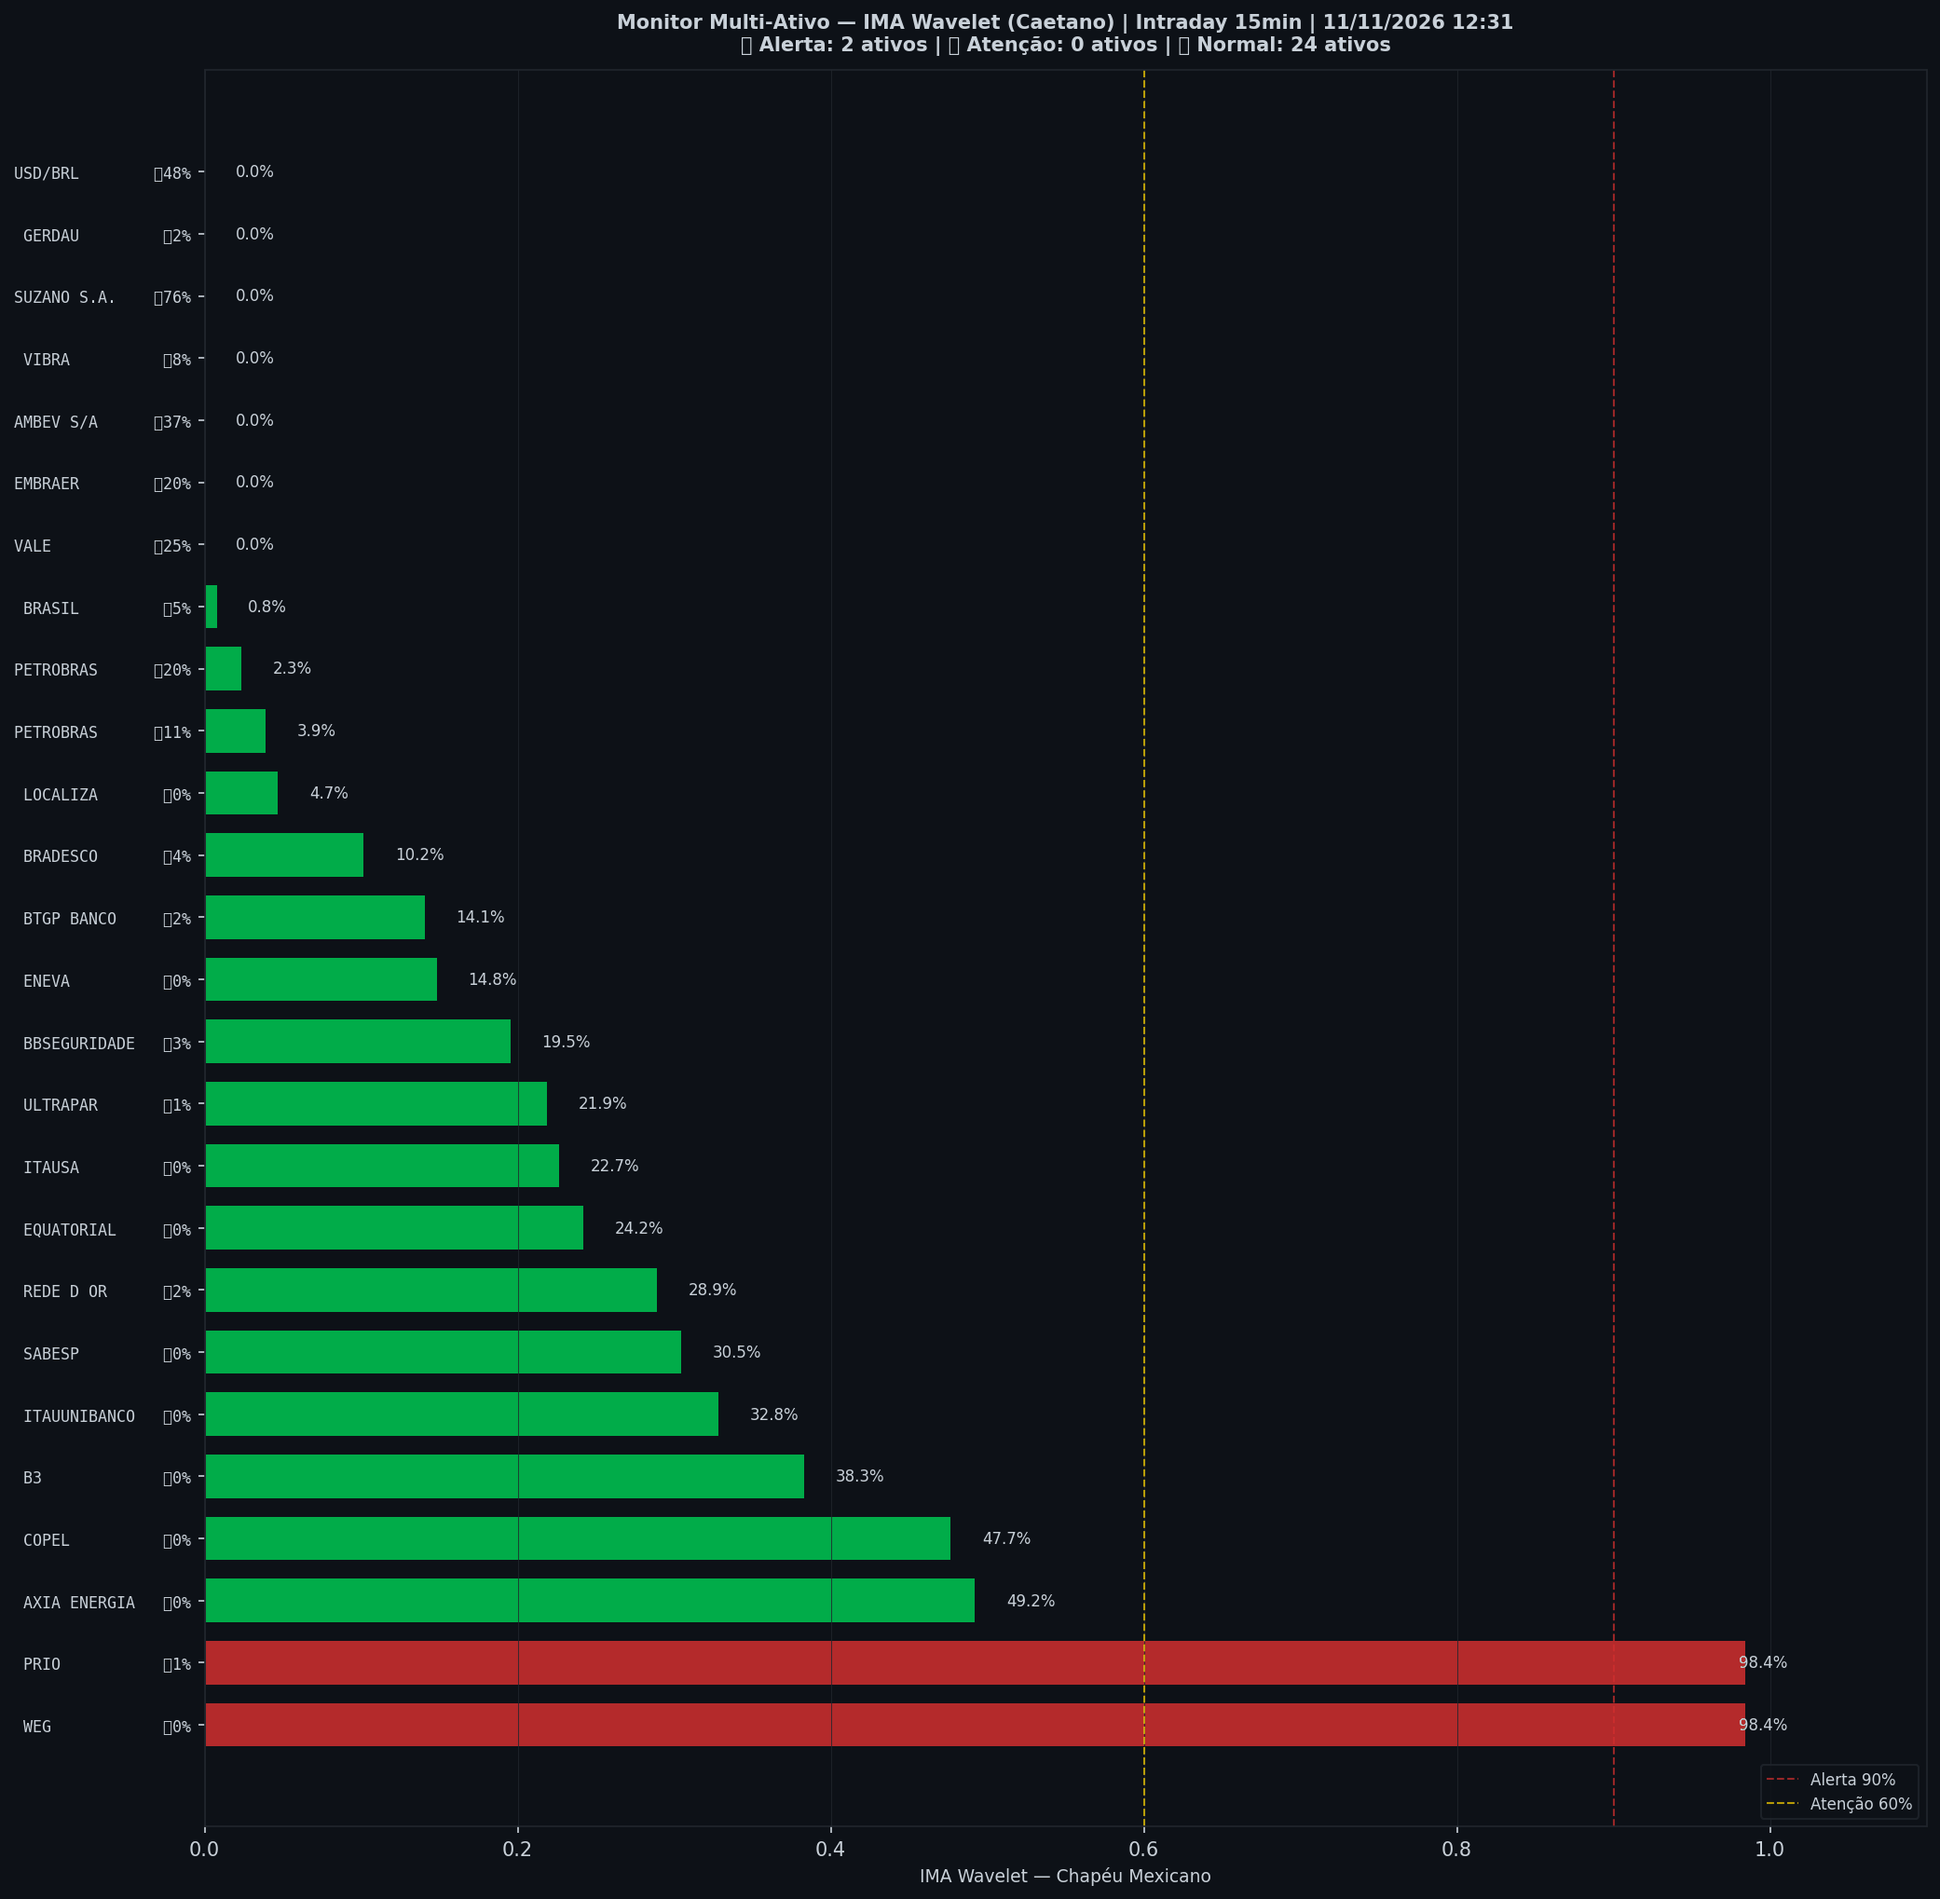
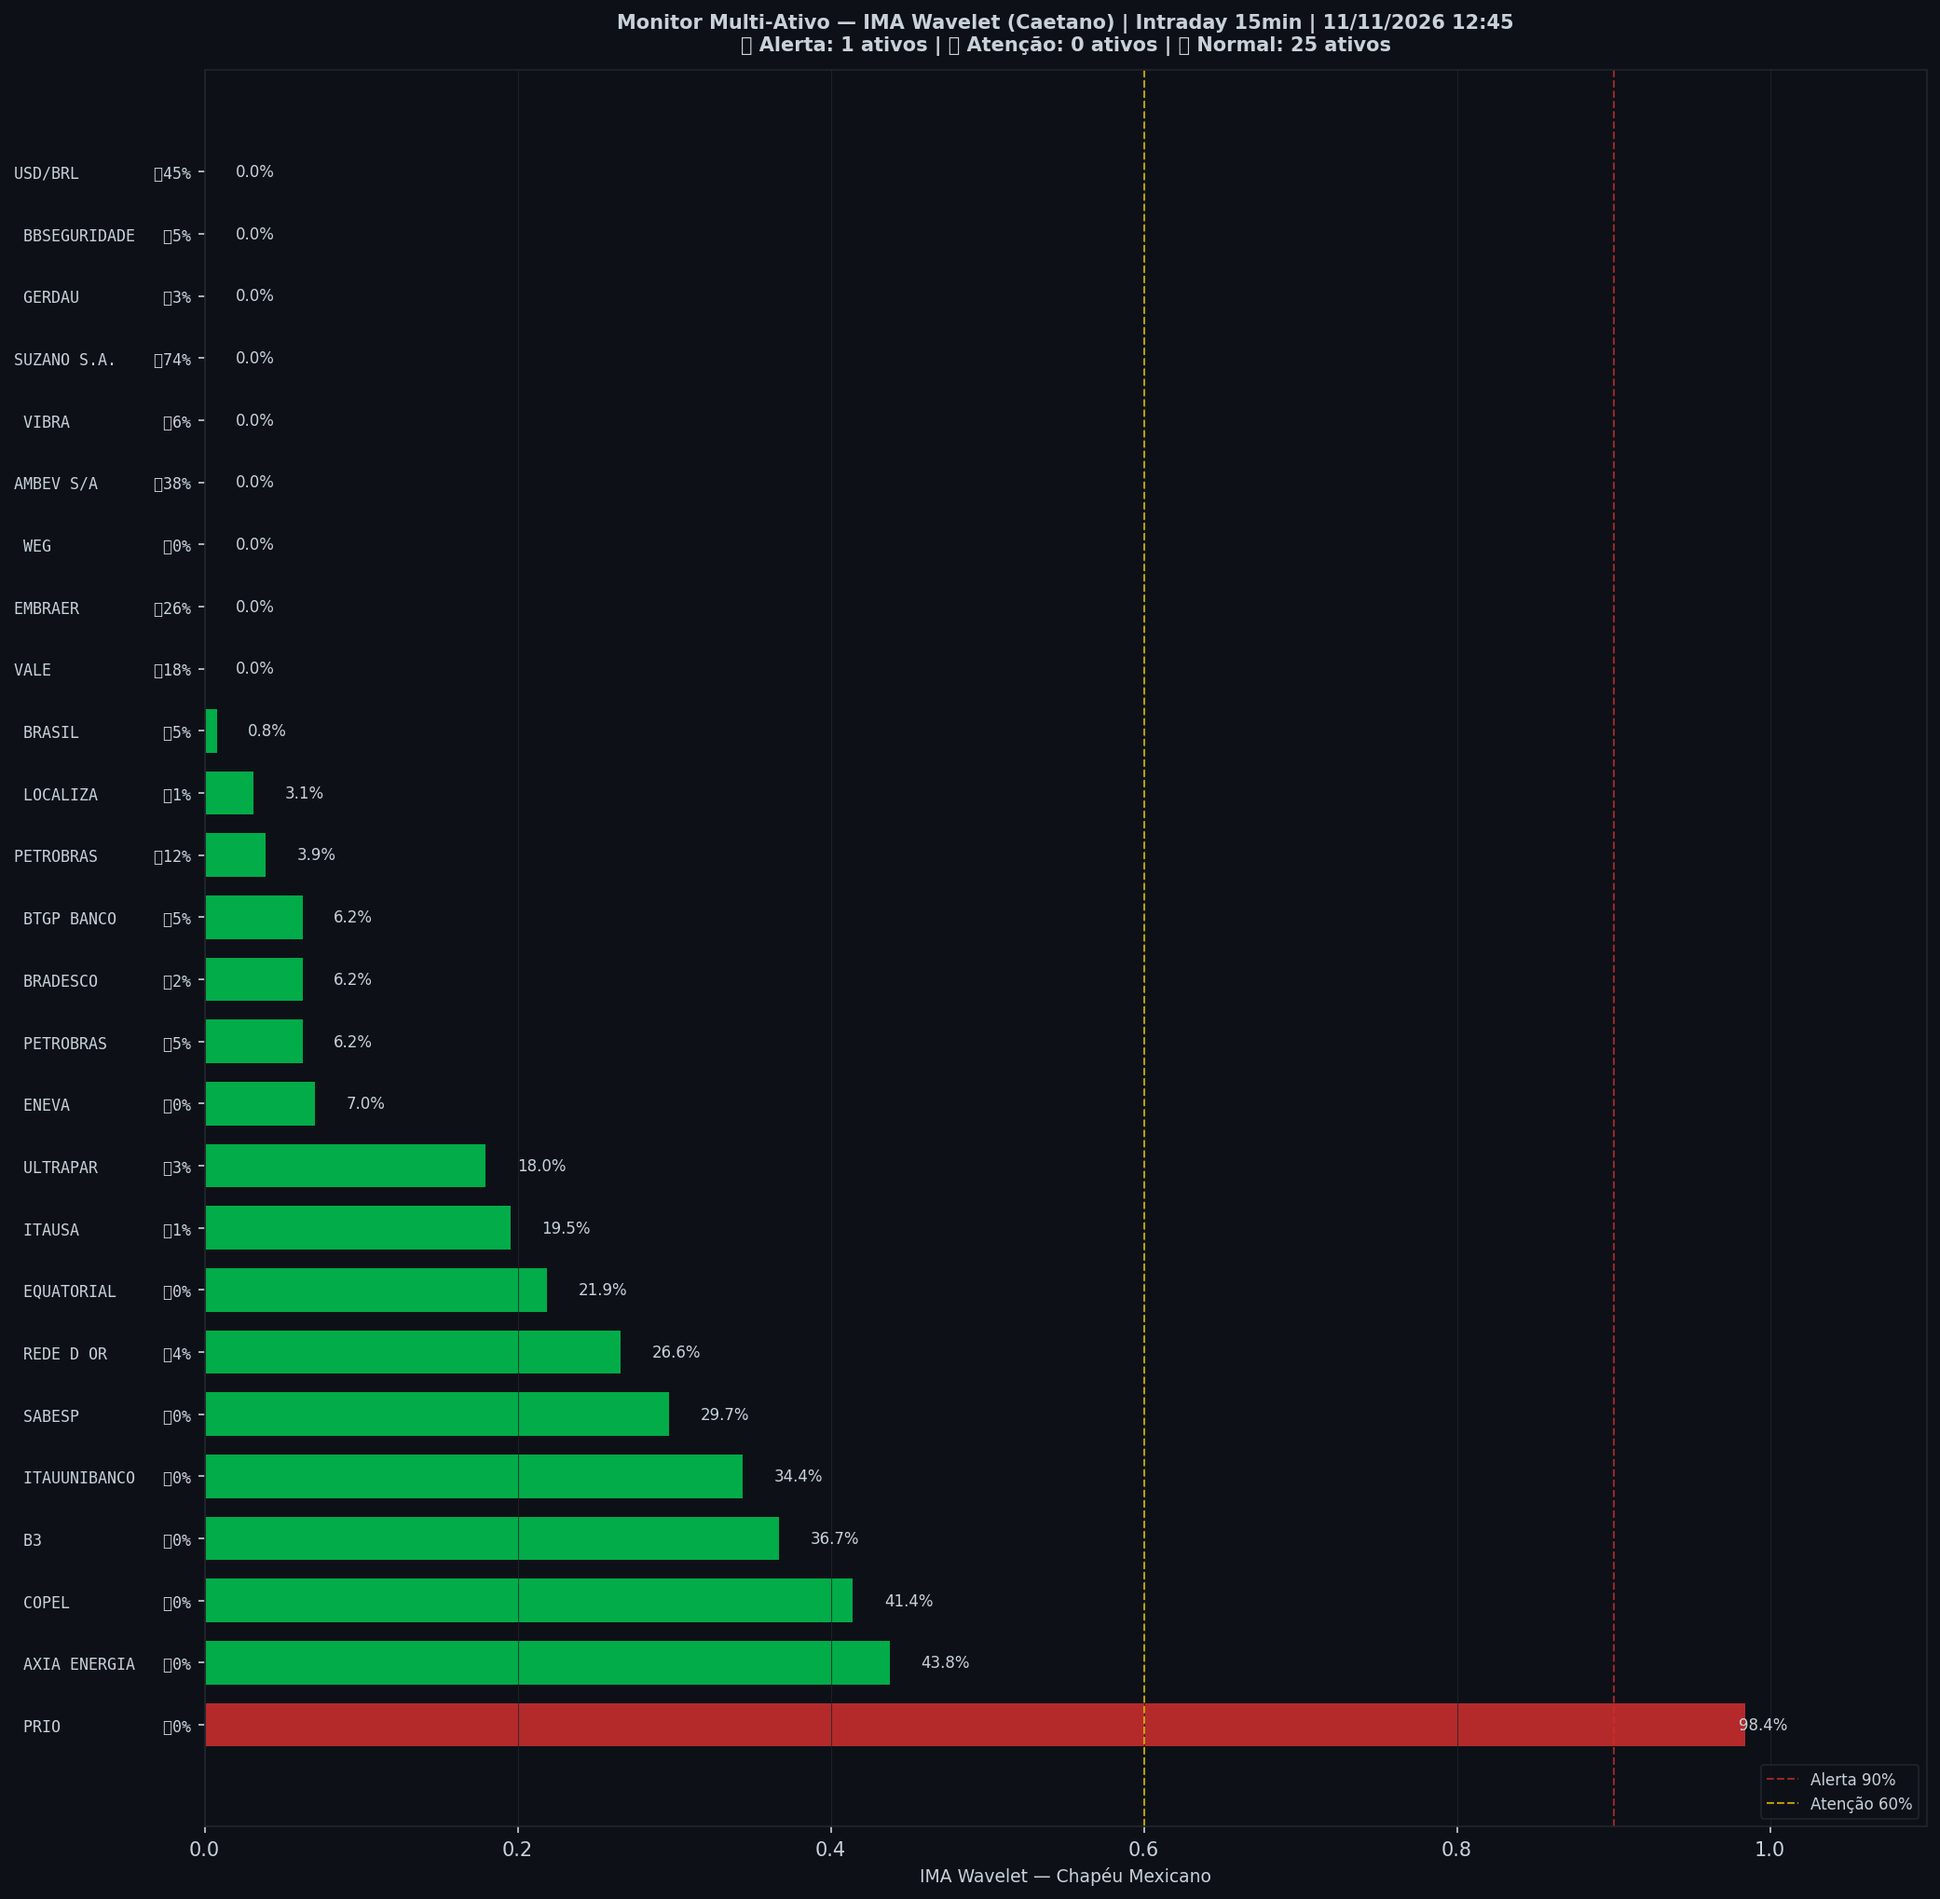
🤖 Auto: Sinal 11/11/2026 12:45

diff --git a/content/intraday/2026-11-11.md b/content/intraday/2026-11-11.md
@@ -1,10 +1,10 @@
 ---
-title: "🟢 Intraday 11/11/2026 12:15 BRT — VERDE"
+title: "🟢 Intraday 11/11/2026 12:30 BRT — VERDE"
 date: 2026-11-11
 tags: [intraday]
 ---
 
-> [!success] Onde o mercado está agora (11/11 12:15, candles de 15 min): **🟢 Calmo**
+> [!success] Onde o mercado está agora (11/11 12:30, candles de 15 min): **🟢 Calmo**
 > `Pânico ◀──────────●──────────▶ Euforia`
 >
 > O Ibovespa está dentro da sua faixa normal, sem excesso para cima nem para baixo.
@@ -20,7 +20,7 @@ tags: [intraday]
 > | 📍 **Sinais** | hoje: nenhum sinal | [abrir](sinais-topo-fundo/) |
 > | 🧪 **Placar ao vivo** | 1 operação(ões), 0 com lucro, soma -0,8% | [abrir](operacoes/) |
 
-> [!success] IMA Intraday · 15 min (11/11 12:15): 🟢 **VERDE** — Risco 0% · ▼ -2 p.p. vs leitura anterior
+> [!success] IMA Intraday · 15 min (11/11 12:30): 🟢 **VERDE** — Risco 0% · ＝ +0 p.p. vs leitura anterior
 > `░░░░░░░░░░░░░░░░░░░░`
 > Preço na faixa normal em torno da tendência.
 
@@ -32,13 +32,13 @@ tags: [intraday]
 >
 > *Leitura educacional baseada em 26 anos de dados, não recomendação. [Como usar](../metodologia/crise#3-como-usar-na-prática).*
 
-| Indicador — IMA Intraday · 15 min (11/11 12:15) | Valor |
+| Indicador — IMA Intraday · 15 min (11/11 12:30) | Valor |
 |---|---|
 | 🔴 ζ Topo — preço esticado acima da tendência | **0%** |
 | 🔵 ζ Fundo — preço esticado abaixo da tendência | 0% |
 | 🫧 LPPL bolha — alta super-exponencial (risco de crash) | 0% |
 | 🫧 LPPL antibolha — queda super-exponencial (risco de repique) | 0% |
-| 📊 Ibovespa | 172.700 pts |
+| 📊 Ibovespa | 172.890 pts |
 
 ![Gráfico do sinal](../graficos/sinal_intraday.png)
 
@@ -46,6 +46,7 @@ tags: [intraday]
 
 | Data | Zona | Evento | Risco | ζ Topo | ζ Fundo | LPPL |
 |---|---|---|---|---|---|---|
+| 2026-11-11 12:30 | 🟢 VERDE |  | **0%** | 0% | 0% | 0% |
 | 2026-11-11 12:15 | 🟢 VERDE |  | **0%** | 0% | 0% | 0% |
 | 2026-11-11 12:00 | 🟢 VERDE |  | **2%** | 2% | 0% | 0% |
 | 2026-11-11 11:45 | 🟢 VERDE |  | **5%** | 5% | 0% | 0% |
@@ -75,51 +76,50 @@ tags: [intraday]
 | 2026-11-10 14:00 | 🟢 VERDE |  | **0%** | 0% | 15% | 0% |
 | 2026-11-10 13:45 | 🟢 VERDE |  | **0%** | 0% | 16% | 0% |
 | 2026-11-10 13:30 | 🟢 VERDE |  | **0%** | 0% | 15% | 0% |
-| 2026-11-10 13:15 | 🟢 VERDE |  | **1%** | 1% | 12% | 0% |
 
 <small>Destaques: 🟡 ≥ 60% · 🔴 ≥ 90% (Risco e ζ Topo) · 🔵 ≥ 60% · 🔪 ≥ 90% (ζ Fundo) · 🫧 ≥ 30% · 🫧🔴 ≥ 50% (LPPL)</small>
 
 ## Monitor Multi-Ativo
 
-**8% dos ativos em tensão** (2🔴 0🟡) · **1 com ζ Fundo alto** — quanto mais ativos disparam juntos, mais confiável o sinal.
+**4% dos ativos em tensão** (1🔴 0🟡) · **1 com ζ Fundo alto** — quanto mais ativos disparam juntos, mais confiável o sinal.
 
 > [!danger] Em destaque no multi-ativo
-> 🔴 **WEG** ζ Topo 98% · 🔴 **PRIO** ζ Topo 98% · 🔵 **SUZANO S.A.** ζ Fundo 76%
+> 🔴 **PRIO** ζ Topo 98% · 🔵 **SUZANO S.A.** ζ Fundo 74%
 
 | Zona | Ativo | Setor | ζ Topo | ζ Fundo |
 |---|---|---|---|---|
-| 🔴 | **WEG** | Industrial | 🔴 **98.4%** | 0.0% |
-| 🔴 | **PRIO** | Petróleo | 🔴 **98.4%** | 0.8% |
-| 🟢 | **SUZANO S.A.** | Papel/Celulose | 0.0% | 🔵 **75.8%** |
-| 🟢 | **AXIA ENERGIA** | Energia | 49.2% | 0.0% |
-| 🟢 | **USD/BRL** | Câmbio | 0.0% | 48.4% |
-| 🟢 | **COPEL** | Energia | 47.7% | 0.0% |
-| 🟢 | **B3** | Financeiro | 38.3% | 0.0% |
-| 🟢 | **AMBEV S/A** | Consumo | 0.0% | 36.7% |
-| 🟢 | **ITAUUNIBANCO** | Financeiro | 32.8% | 0.0% |
-| 🟢 | **SABESP** | Saneamento | 30.5% | 0.0% |
-| 🟢 | **REDE D OR** | Saúde | 28.9% | 1.6% |
-| 🟢 | **VALE** | Mineração | 0.0% | 25.0% |
-| 🟢 | **EQUATORIAL** | Energia | 24.2% | 0.0% |
-| 🟢 | **ITAUSA** | Financeiro | 22.7% | 0.0% |
-| 🟢 | **ULTRAPAR** | Outros | 21.9% | 0.8% |
-| 🟢 | **EMBRAER** | Outros | 0.0% | 20.3% |
-| 🟢 | **PETROBRAS** | Petróleo | 2.3% | 19.5% |
-| 🟢 | **BBSEGURIDADE** | Financeiro | 19.5% | 3.1% |
-| 🟢 | **ENEVA** | Energia | 14.8% | 0.0% |
-| 🟢 | **BTGP BANCO** | Financeiro | 14.1% | 1.6% |
-| 🟢 | **PETROBRAS** | Petróleo | 3.9% | 10.9% |
-| 🟢 | **BRADESCO** | Financeiro | 10.2% | 3.9% |
-| 🟢 | **VIBRA** | Energia | 0.0% | 7.8% |
-| 🟢 | **BRASIL** | Financeiro | 0.8% | 5.5% |
-| 🟢 | **LOCALIZA** | Aluguel | 4.7% | 0.0% |
-| 🟢 | **GERDAU** | Siderurgia | 0.0% | 1.6% |
+| 🔴 | **PRIO** | Petróleo | 🔴 **98.4%** | 0.0% |
+| 🟢 | **SUZANO S.A.** | Papel/Celulose | 0.0% | 🔵 **74.2%** |
+| 🟢 | **USD/BRL** | Câmbio | 0.0% | 44.5% |
+| 🟢 | **AXIA ENERGIA** | Energia | 43.8% | 0.0% |
+| 🟢 | **COPEL** | Energia | 41.4% | 0.0% |
+| 🟢 | **AMBEV S/A** | Consumo | 0.0% | 37.5% |
+| 🟢 | **B3** | Financeiro | 36.7% | 0.0% |
+| 🟢 | **ITAUUNIBANCO** | Financeiro | 34.4% | 0.0% |
+| 🟢 | **SABESP** | Saneamento | 29.7% | 0.0% |
+| 🟢 | **REDE D OR** | Saúde | 26.6% | 3.9% |
+| 🟢 | **EMBRAER** | Outros | 0.0% | 25.8% |
+| 🟢 | **EQUATORIAL** | Energia | 21.9% | 0.0% |
+| 🟢 | **ITAUSA** | Financeiro | 19.5% | 0.8% |
+| 🟢 | **VALE** | Mineração | 0.0% | 18.0% |
+| 🟢 | **ULTRAPAR** | Outros | 18.0% | 3.1% |
+| 🟢 | **PETROBRAS** | Petróleo | 3.9% | 11.7% |
+| 🟢 | **ENEVA** | Energia | 7.0% | 0.0% |
+| 🟢 | **PETROBRAS** | Petróleo | 6.2% | 4.7% |
+| 🟢 | **BRADESCO** | Financeiro | 6.2% | 2.3% |
+| 🟢 | **BTGP BANCO** | Financeiro | 6.2% | 4.7% |
+| 🟢 | **VIBRA** | Energia | 0.0% | 6.2% |
+| 🟢 | **BBSEGURIDADE** | Financeiro | 0.0% | 5.5% |
+| 🟢 | **BRASIL** | Financeiro | 0.8% | 4.7% |
+| 🟢 | **GERDAU** | Siderurgia | 0.0% | 3.1% |
+| 🟢 | **LOCALIZA** | Aluguel | 3.1% | 0.8% |
+| 🟢 | **WEG** | Industrial | 0.0% | 0.0% |
 
 <small>Destaques: 🟡 ≥ 60% · 🔴 ≥ 90% (Risco e ζ Topo) · 🔵 ≥ 60% · 🔪 ≥ 90% (ζ Fundo) · 🫧 ≥ 30% · 🫧🔴 ≥ 50% (LPPL)</small>
 
 ![Monitor multi-ativo](../graficos/multi_intraday.png)
 
-*Página atualizada em 11/11/2026 12:31 BRT (leitura da barra de 2026-11-11 12:15 BRT).*
+*Página atualizada em 11/11/2026 12:45 BRT (leitura da barra de 2026-11-11 12:30 BRT).*
 
 > [!warning] O que este indicador não faz
 > Medido em 5 anos de Ibovespa, o ζ **não antecipa** topos nem fundos: a capacidade de separar o que sobe do que cai ficou em 0,49–0,52, e 0,50 é moeda jogada ao ar. Ele descreve o estado de agora; não é aviso do que vem. As zonas verde/amarelo/vermelho continuam na página como descrição desse estado — **não as use como sinal de entrada ou saída**.

diff --git a/content/index.md b/content/index.md
@@ -6,9 +6,9 @@ tags: [home]
 
 **As ondas do mercado, explicadas.** Leitura do Ibovespa com estatística de 26 anos, baseada no trabalho de pesquisadores e traders reconhecidos e adaptada por Jarbas Daniel da Costa.
 
-*Última atualização: 11/11/2026 12:31 BRT · Intraday 15min*
+*Última atualização: 11/11/2026 12:45 BRT · Intraday 15min*
 
-> [!success] Onde o mercado está agora (11/11 12:15, candles de 15 min): **🟢 Calmo**
+> [!success] Onde o mercado está agora (11/11 12:30, candles de 15 min): **🟢 Calmo**
 > `Pânico ◀──────────●──────────▶ Euforia`
 >
 > O Ibovespa está dentro da sua faixa normal, sem excesso para cima nem para baixo.
@@ -44,20 +44,20 @@ tags: [home]
 > *Leitura educacional baseada em 26 anos de dados, não recomendação. [Como usar](metodologia/crise#3-como-usar-na-prática).*
 
 > [!info]- 🌊 Detalhes do Sinal IMA (indicadores e últimos 7 pregões)
-> > [!success] IMA Intraday · 15 min (11/11 12:15): 🟢 **VERDE** — Risco 0% · ▼ -2 p.p. vs leitura anterior
+> > [!success] IMA Intraday · 15 min (11/11 12:30): 🟢 **VERDE** — Risco 0% · ＝ +0 p.p. vs leitura anterior
 > > `░░░░░░░░░░░░░░░░░░░░`
 > > Preço na faixa normal em torno da tendência.
 >
 >
-> | Indicador — IMA Intraday · 15 min (11/11 12:15) | Valor |
+> | Indicador — IMA Intraday · 15 min (11/11 12:30) | Valor |
 > |---|---|
 > | 🔴 ζ Topo — preço esticado acima da tendência | **0%** |
 > | 🔵 ζ Fundo — preço esticado abaixo da tendência | 0% |
 > | 🫧 LPPL bolha — alta super-exponencial (risco de crash) | 0% |
 > | 🫧 LPPL antibolha — queda super-exponencial (risco de repique) | 0% |
-> | 📊 Ibovespa | 172.700 pts |
+> | 📊 Ibovespa | 172.890 pts |
 >
-> **Multi-ativo:** 8% em tensão (2🔴 0🟡 de 26 ativos)
+> **Multi-ativo:** 4% em tensão (1🔴 0🟡 de 26 ativos)
 >
 > **Últimos 7 pregões**
 >

diff --git a/content/historico.md b/content/historico.md
@@ -5,7 +5,7 @@ tags: [historico]
 
 # 📜 Histórico de leituras (v5)
 
-**2.288 leituras** desde 2026-07-03. Na página ficam os últimos 3 dias leitura por leitura e o resumo de cada dia anterior; o registro inteiro está no arquivo para baixar.
+**2.289 leituras** desde 2026-07-03. Na página ficam os últimos 3 dias leitura por leitura e o resumo de cada dia anterior; o registro inteiro está no arquivo para baixar.
 
 [**Baixar o histórico completo**](historico-completo.csv) (100 KB · abre no Excel e no LibreOffice)
 
@@ -16,6 +16,7 @@ tags: [historico]
 
 | Data | Modo | Zona | Risco | IMA | LPPL |
 |---|---|---|---|---|---|
+| 2026-11-11 12:30 | intraday | 🟢 VERDE | 0% | 0% | 0% |
 | 2026-11-11 12:15 | intraday | 🟢 VERDE | 0% | 0% | 0% |
 | 2026-11-11 12:00 | intraday | 🟢 VERDE | 2% | 2% | 0% |
 | 2026-11-11 11:45 | intraday | 🟢 VERDE | 5% | 5% | 0% |

diff --git a/content/operacoes/ranking.md b/content/operacoes/ranking.md
@@ -5,7 +5,7 @@ tags: [operacoes]
 description: "As regras de compra do site ordenadas pelo resultado, com treino, teste e placar ao vivo"
 ---
 
-*Atualizado 11/11/2026 12:31 · histórico simulado com as regras congeladas em 23/10/2026 + placar ao vivo.*
+*Atualizado 11/11/2026 12:45 · histórico simulado com as regras congeladas em 23/10/2026 + placar ao vivo.*
 
 As regras de compra do site, **da que mais rendeu para a que menos rendeu**. O resultado é por operação, no índice à vista, sem custos e sem juros compostos (a soma é só a soma das operações). **Treino** = entradas de 2001 a 2013 e **teste** = 2014 em diante: uma regra só é confiável se ganhou nos dois. O único resultado sem nenhum ajuste ao histórico é o **placar ao vivo**.
 

diff --git a/content/linha-do-tempo/index.md b/content/linha-do-tempo/index.md
@@ -5,7 +5,7 @@ description: "Todo sinal, ordem, stop e aviso do Pêndulo de Mercado, do mais re
 tags: [eventos]
 ---
 
-*Atualizada 11/11/2026 12:31 BRT · a cada 15 min no pregão e às 19h.*
+*Atualizada 11/11/2026 12:45 BRT · a cada 15 min no pregão e às 19h.*
 
 Tudo o que o sistema fez ou detectou, **do mais recente para o mais antigo**: sinais de topo e fundo, ordens de compra e de venda armadas, compras, vendas, stops, avisos de 🚨 preço perto do nível e mudanças do Sinal IMA. Os **últimos 7 dias** ficam abertos; o resto, por **ano → mês → dia**.
 
